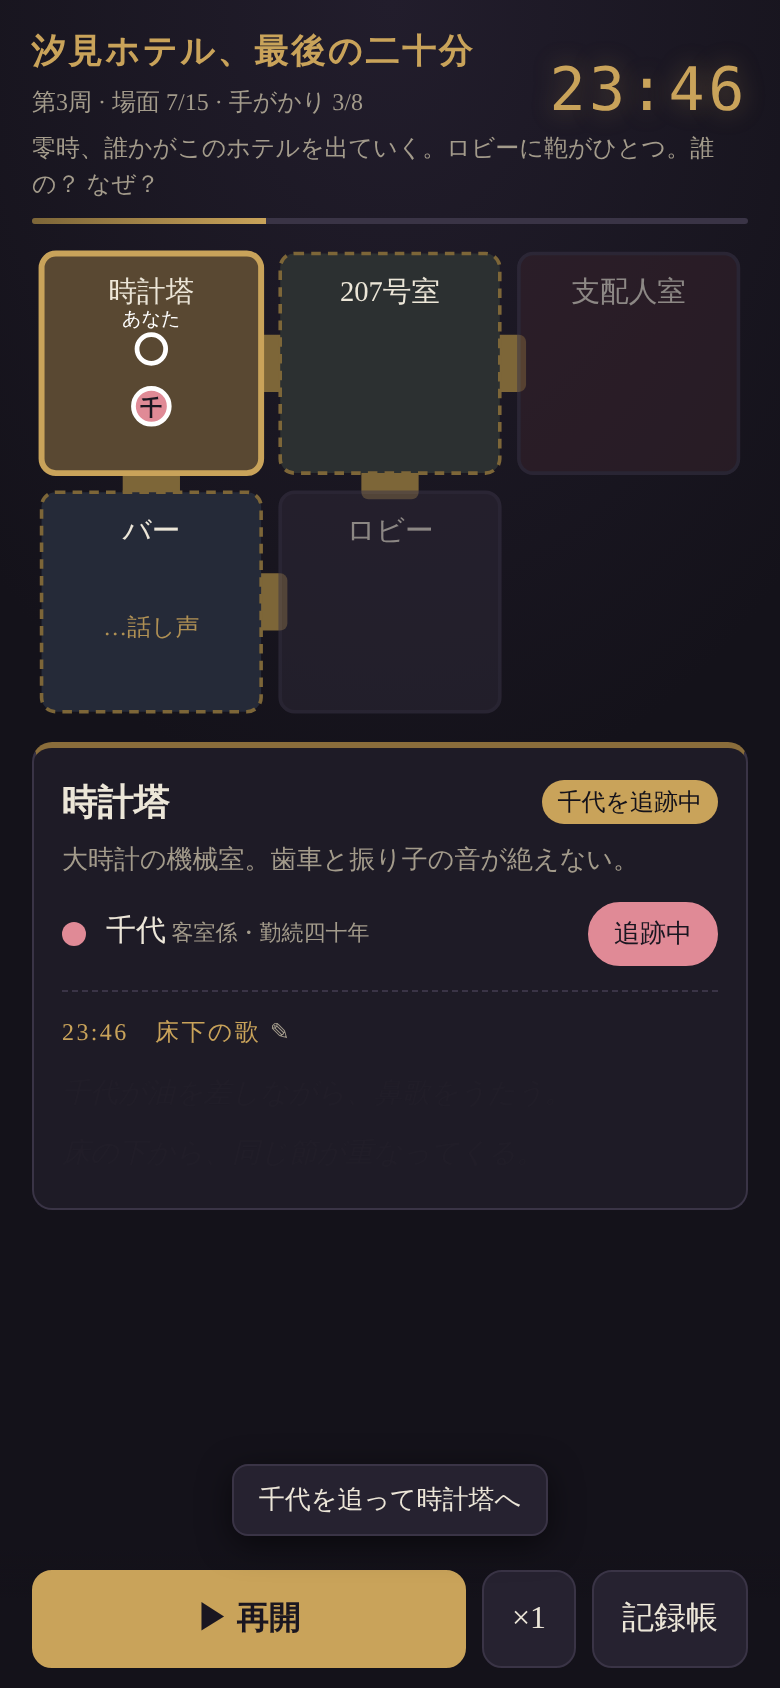
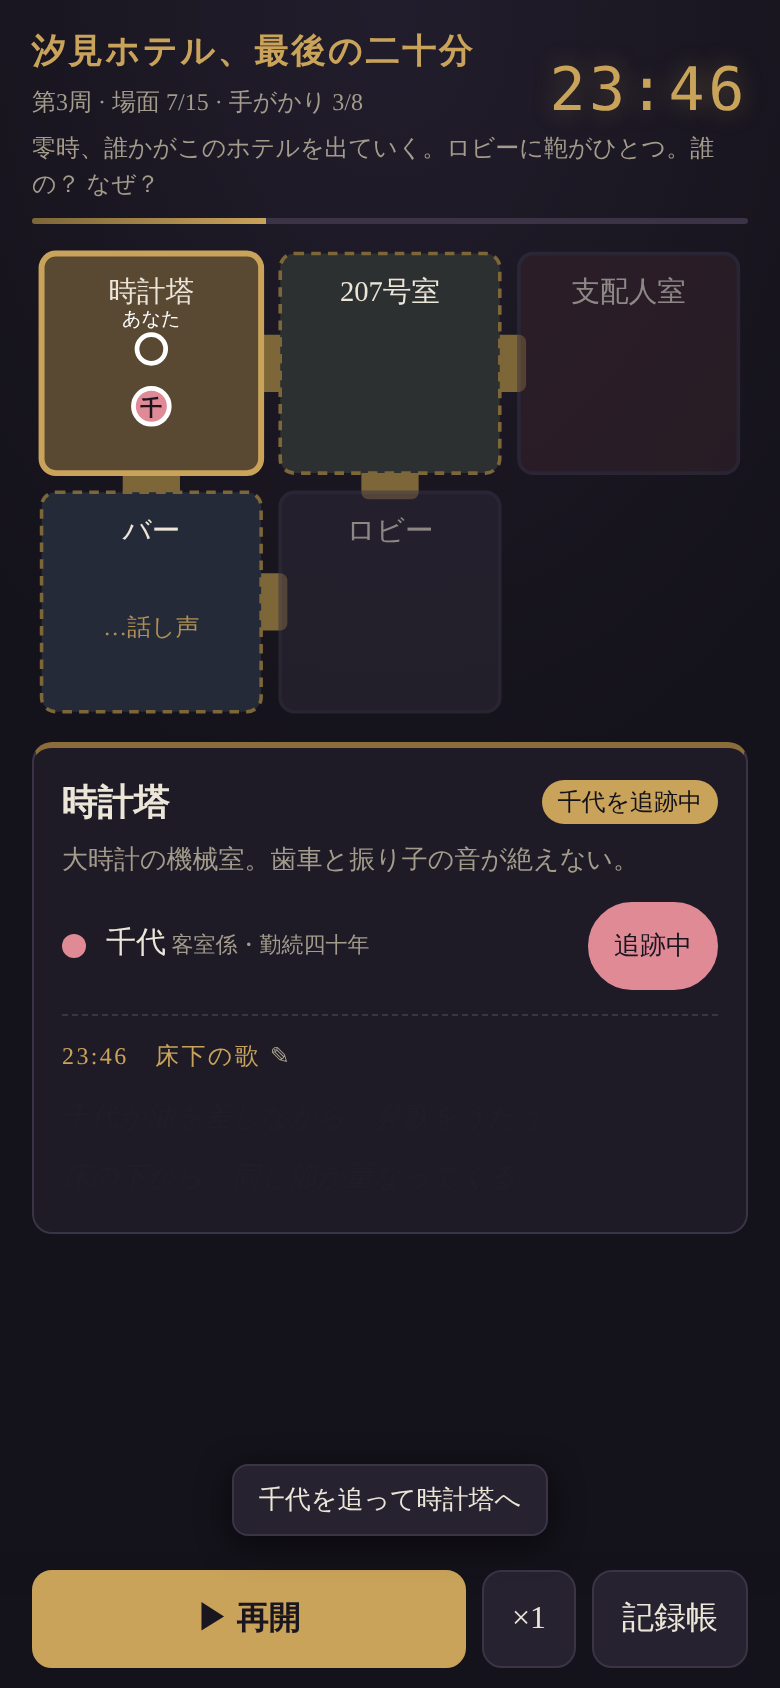
immersive-hour: release review fixes (legacy save sanitizing, 44px targets, softer hint)
Claude-Session: https://claude.ai/code/session_01VUSzgfqiHWA6PG9xweQSaZ

Changed region(s): [[0.1538, 0.5237, 0.4615, 0.6469], [0.7385, 0.5237, 0.9231, 0.5853], [0.0615, 0.5237, 0.1538, 0.6469]]

diff --git a/games/immersive-hour/app.js b/games/immersive-hour/app.js
@@ -68,8 +68,7 @@
     chars = Object.fromEntries(SC.characters.map(c => [c.id, c]));
     adj = Object.fromEntries(SC.rooms.map(r => [r.id, new Set()]));
     for (const [a, b] of SC.doors) { adj[a].add(b); adj[b].add(a); }
-    Object.assign(S.save, store.load(KEY) || {});
-    for (const c of SC.characters) S.save.witnessed[c.id] ||= {};
+    Object.assign(S.save, sanitizeSave(store.load(KEY)));
     document.title = SC.title;
     $('title').textContent = SC.title;
     $('question').textContent = SC.question || '';
@@ -79,6 +78,27 @@
     render(true);
     showTitleCard();
     requestAnimationFrame(frame);
+  }
+
+  // 保存データを現行の脚本に合わせて洗う（旧版の場面・部屋・人物・分が混ざっていても壊れない）
+  function sanitizeSave(raw) {
+    const r = raw && typeof raw === 'object' ? raw : {};
+    const sceneIds = new Set(SC.scenes.map(s => s.id));
+    const truthIds = new Set(SC.truths.map(t => t.id));
+    const pick = (obj, ok) => Object.fromEntries(Object.entries(obj && typeof obj === 'object' ? obj : {}).filter(([k, v]) => v && ok(k)));
+    const witnessed = {};
+    for (const c of SC.characters) {
+      const w = r.witnessed?.[c.id];
+      witnessed[c.id] = Object.fromEntries(Object.entries(w && typeof w === 'object' ? w : {})
+        .filter(([m, room]) => Number(m) >= 0 && Number(m) < SC.length && rooms[room]));
+    }
+    return {
+      loops: Number.isFinite(r.loops) && r.loops > 0 ? r.loops : 0,
+      seen: pick(r.seen, id => sceneIds.has(id)),
+      truths: pick(r.truths, id => truthIds.has(id)),
+      witnessed,
+      notes: typeof r.notes === 'string' ? r.notes : ''
+    };
   }
 
   // ---------- 時間の進行 ----------

diff --git a/games/immersive-hour/style.css b/games/immersive-hour/style.css
@@ -72,7 +72,7 @@ h1 { font-size: 17px; margin: 0; letter-spacing: .08em; color: var(--brass); }
 .p-name { font-size: 15px; }
 .p-name small { color: var(--muted); font-size: 11px; }
 .p-idle { font-size: 13px; color: var(--muted); }
-.follow { border: 1px solid var(--c); background: transparent; border-radius: 999px; padding: 4px 12px; font-size: 13px; min-height: 32px; }
+.follow { border: 1px solid var(--c); background: transparent; border-radius: 999px; padding: 4px 12px; font-size: 13px; min-height: 44px; min-width: 64px; }
 .follow.on { background: var(--c); color: #1a1620; }
 
 .scene { margin-top: 12px; border-top: 1px dashed var(--line); padding-top: 10px; }
@@ -181,7 +181,7 @@ textarea { width: 100%; background: var(--bg); color: var(--ink); border: 1px so
 .stable th.tm { text-align: right; padding-right: 4px; color: var(--muted); font-weight: 400; }
 .stable tbody tr { border-top: 1px solid var(--line); }
 .stable td { border-left: 1px solid var(--line); }
-.sc-btn { width: 100%; min-height: 30px; padding: 2px 3px; font-size: 10px; line-height: 1.3; border-radius: 4px; border: 1px solid var(--tone); background: var(--panel-2); color: inherit; text-align: left; }
+.sc-btn { width: 100%; min-height: 44px; padding: 2px 3px; font-size: 10px; line-height: 1.3; border-radius: 4px; border: 1px solid var(--tone); background: var(--panel-2); color: inherit; text-align: left; }
 .sc-btn.on { background: var(--tone); }
 .sc-q { display: block; width: 100%; text-align: center; color: var(--muted); padding: 6px 0; background: none; border: 0; font: inherit; cursor: pointer; }
 .sc-q.on { color: var(--brass); }

diff --git a/games/immersive-hour/studio/reviews/2026-11-18-release.md b/games/immersive-hour/studio/reviews/2026-11-18-release.md
@@ -11,7 +11,7 @@
   `localStorage['immersive-hour:v1:shiomi-hotel']=JSON.stringify({loops:3,seen:{X9:true},truths:{T_chiyo:true,T_final:true},witnessed:{chiyo:{0:'kitchen',1:'lobby',45:'bar'}},notes:''})`
   → 記録帳 → 人物 で例外、タブが空になる。
 - 副作用（落ちはしない）: ヘッダー「手がかり 2/8」は `Object.keys(S.save.truths).length`（app.js:318）で、旧 ID も数えるため実数より増える。人物タブの `known/20分` は 20 分以降のキーも数えるため「45/20分」になりうる。`T_final` 等は現行にない ID。
-- 修正案（xxx担当: coder）: 読み込み時に `seen/truths` を現行シナリオの scene/truth ID でフィルタし、`witnessed` は `m < SC.length` かつ `rooms[r]` が存在するものだけ残す。`Object.keys(truths)` を `SC.truths.filter(t => S.save.truths[t.id]).length` に変える。または保存キーを `v2` に上げる（旧データを捨てる）。
+- 修正案（担当: coder）: 読み込み時に `seen/truths` を現行シナリオの scene/truth ID でフィルタし、`witnessed` は `m < SC.length` かつ `rooms[r]` が存在するものだけ残す。`Object.keys(truths)` を `SC.truths.filter(t => S.save.truths[t.id]).length` に変える。または保存キーを `v2` に上げる（旧データを捨てる）。
 - 確認方法: e2e に上の保存データを先に注入するケースを 1 件足し、人物タブを開いてコンソールエラーなし・ヘッダーが x/8 以内であることを見る。
 
 ## 直したほうがいい点（通すが修正推奨）
@@ -41,3 +41,11 @@
 - 部屋は SVG に `tabindex=0 role=button aria-label` と Enter/Space 操作があり、キーボードで移動できる。
 - 配色は暗い地に真鍮色で、muted（#a39b8b）の文字は十分読める。スマホ幅（記録帳 5 列）でも 05 のスクショで崩れなし。
 - 手がかりの hint と「ほぼ見えた」補助（best 計算、app.js:195-200）で、周が空振りしても進行不能にならない。
+
+---
+## PM の対応（2026-11-18）
+- B1 修正: 読み込み時に保存データを現行脚本で洗う `sanitizeSave`（app.js）。e2e に旧版データ注入の確認を2件追加 → 27件 ok。
+- タップ領域: 「追う」・記録帳の場面ボタンを 44px に。
+- K_song のヒントを「同じ節を、ほかに誰が知っているだろう。」に（仕掛けを先に言わない）。
+- reduced-motion: 既存の一括無効化（style.css 末尾）で足りると判断。追加対応なし。
+- 再レビューは呼ばない（機械で確認できる修正のみ）。

diff --git a/games/immersive-hour/studio/decisions.md b/games/immersive-hour/studio/decisions.md
@@ -17,3 +17,6 @@
 - 2026-11-18 | 「上と下の歌」の手がかり文から、反対側の種明かしを削る | 周3の発見を終演文が先に言っていた（指摘3・4） | 両側を見たときだけ開く（成果ゼロの周が増える）
 - 2026-11-18 | ロビーに無人の環境場面を2つ追加（A1 壁越しの歌→バーへ、A2 落ちる音→207へ）。手がかり条件には入れない | ロビー14分無人の退屈（指摘2・退屈1）。台詞なしで隣室へ誘う | ロビーに人物を足す（3人の縮小仕様に反する）
 - 2026-11-18 | 「修」の初出に説明を足さない | 余白として残す。腕時計の裏蓋（M3）で回収される | T1 に説明台詞
+- 2026-11-18 | レビュー B1（旧版保存データで落ちる）は保存キーを変えず、読み込み時に現行脚本で洗う | 旧版の周回数・メモを捨てずに済む | キーを v2 に上げる
+- 2026-11-18 | reviewer の再確認は呼ばず、gate（e2e 27件）で確認して gate-release を打つ | 修正は機械で確かめられる範囲のみ | —
+- 2026-11-18 | Phase 6（公開）には進まない。PR 更新で停止 | 親セッション経由の指示 | —

diff --git a/games/immersive-hour/studio/STATUS.md b/games/immersive-hour/studio/STATUS.md
@@ -1,7 +1,7 @@
 # STATUS（コンテキストが切れたらここから再開）
 
 - mode: eco
-- 現在フェーズ: 5（品質ゲート）
+- 現在フェーズ: 5 完了（gate-release）。Phase 6 は実施しない（公開しない）
 - Gate 1: 承認済み扱い（親セッション経由） / Gate 2: 対象外（公開しない。PR で停止）
 - 最終更新: 2026-11-18
 
@@ -20,6 +20,7 @@
 - concept / brief / gdd（骨組み・手がかり・エンジン変更）を作成
 
 ## 次にやること
-- reviewer / legal の結果待ち → ブロッカー修正 → gate 再実行 → tag gate-release → PR 本文更新で停止（公開しない）
+- 停止。オーナーの判断待ち: タイトル決定、ライセンス、商標確認（J-PlatPat）、公開の可否
 
 ## 待ち・懸念
+- legal YELLOW: 採用タイトルと「汐見ホテル」の商標確認は人間が行う。LICENSE 未設定

diff --git a/games/immersive-hour/README.md b/games/immersive-hour/README.md
@@ -57,7 +57,7 @@ games/immersive-hour/
 │   └── shiomi-hotel.json             公演「汐見ホテル、最後の二十分」
 ├── tools/
 │   ├── timetable.mjs                 脚本の整合性チェック + 下の時刻表を出力
-│   └── e2e.mjs                       Playwright で 5 周（噂・全手がかり・最終章）を確認
+│   └── e2e.mjs                       Playwright で 6 周（噂・全手がかり・最終章・旧データ）を確認
 ├── screenshots/                      e2e が撮るスクリーンショット
 └── studio/                           制作ドキュメント（コンセプト・GDD・決定ログ・プレイテスト）
 ```
